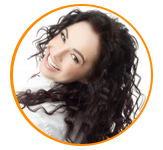
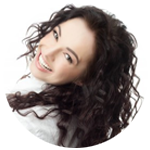
ready all except reviews-page (adding photos in review)

diff --git a/js/main.js b/js/main.js
@@ -24,15 +24,14 @@ $(document).ready(function () {
 
 
     //START MAIN PAGE
-
-    //Start modal-window
+        //Start modal-window
         $('.modal-show').on('click', function () {
             $('.overlay').fadeIn(400,
                 function () {
                     $('.modal-form').css('display', 'block').animate({opacity: 1, top: '5%'}, 200);
                 });
         });
-        /* Close modal-window */
+            //Close modal-window
         $('.modal-close, .overlay').on('click', function () {
             $('.modal-form').animate({opacity: 0}, 200,
                 function () {
@@ -64,7 +63,6 @@ $(document).ready(function () {
          * @returns {boolean}
          */
         function validationFields(inputs) {
-
             var countError = 0;
             $.each(inputs, function (i, input) {
 
@@ -81,6 +79,7 @@ $(document).ready(function () {
                     input.parent().children('.success-check').addClass('completed-success');
                 }
             });
+
             return !countError;
         }
 
@@ -140,43 +139,37 @@ $(document).ready(function () {
         $('.page-link').on('click',function (e) {
             e.preventDefault();
 
-            var block;
-            var $this;
+            var $this, block;
 
             if($(this).hasClass('page-prev')){
-
                 $this = $(this).closest('.pagination').children('li').children('.active').parent().prev().children();
-
-                if(!$this.hasClass('page-prev')){
-                    block = $($this.data('paginate'));
-
-                    block.siblings().removeClass('pagination-active').addClass('invisible');
-                    block.removeClass('invisible').addClass('pagination-active');
-
-                    $this.parent().siblings().children().removeClass('active');
-                    $this.addClass('active');
-                }
+                block = $this.hasClass('page-prev') ? false: $($this.data('paginate'));
             }else if($(this).hasClass('page-next')){
                 $this = $(this).closest('.pagination').children('li').children('.active').parent().next().children();
-
-                if(!$this.hasClass('page-next')){
-                    block = $($this.data('paginate'));
-
-                    block.siblings().removeClass('pagination-active').addClass('invisible');
-                    block.removeClass('invisible').addClass('pagination-active');
-
-                    $this.parent().siblings().children().removeClass('active');
-                    $this.addClass('active');
-                }
+                block = $this.hasClass('page-next') ? false: $($this.data('paginate'));
             }else{
+                $this = $(this);
                 block = $($(this).data('paginate'));
+            }
 
+            if(block){
                 block.siblings().removeClass('pagination-active').addClass('invisible');
                 block.removeClass('invisible').addClass('pagination-active');
+                $this.parent().siblings().children().removeClass('active');
+                $this.addClass('active');
 
-                $(this).parent().siblings().children().removeClass('active');
-                $(this).addClass('active');
+                if(block.hasClass('art-block-1')){
+                    $('.page-prev').addClass('disabled');
+                    $('.page-next').removeClass('disabled');
+                }else if(block.hasClass('art-block-3')){
+                    $('.page-next').addClass('disabled');
+                    $('.page-prev').removeClass('disabled');
+                }else{
+                    $('.page-prev').removeClass('disabled');
+                    $('.page-next').removeClass('disabled');
+                }
             }
+
         });
         // End pagination
 
@@ -184,10 +177,10 @@ $(document).ready(function () {
 
 
     // START REVIEWS PAGE
-
+        var filename;
         // Start input-file
         $('input[type=file]').change(function () {
-            var filename = $(this).val().replace(/.*\\/, '');
+             filename = $(this).val().replace(/.*\\/, '');
             console.log(filename);
             $('.attach-photo').html(filename);
         });
@@ -197,15 +190,43 @@ $(document).ready(function () {
 
     $('.add-comment').on('click',function (e) {
         e.preventDefault();
-        var nameUser = $('.horizontal-form').find('#name').val();
-        var commentUser = $('.horizontal-form').find('#comment').val();
-        console.log(nameUser);
-        console.log(commentUser);
 
+        var nameUser = $('#name');
+        var userComment = $('#comment');
+
+        if(validationFields([nameUser,userComment])){
+            var reviewWrapper = $('.template-review').clone();
+            var dateReviews = getDate();
+            reviewWrapper.find('.name-user').empty().text(nameUser.val());
+            reviewWrapper.find('.user-comment').empty().text(userComment.val());
+            reviewWrapper.find('.date-reviews').empty().text(dateReviews);
+            reviewWrapper.find('.photo-user-wrapper').children('img').attr('src','');
+            reviewWrapper.removeClass('template-review');
+            $('.all-reviews').append(reviewWrapper);
+        }
     });
 
-        //End add review
+    // getDate
+    function getDate() {
+        var date = new Date();
+        var day = date.getDate();
+        var month = date.getMonth();
+        var year = date.getFullYear();
 
+        if(day.toString().length === 1){
+            day ='0' + day;
+        }
+
+        month ++;
+        if(month.toString().length === 1){
+            month = '0'+ month;
+        }
+
+        return day + '.' + month + '.' + year;
+    }
+
+        //End add review
+    // validation form-review
     // END REVIEWS PAGE
 
 });

diff --git a/reviews.html b/reviews.html
@@ -61,7 +61,7 @@
             <div class="all-reviews">
                 <h3 class="title-info-box">Отзывы</h3>
                 <!--Start Review 1-->
-                <div class="review-wrapper">
+                <div class="review-wrapper template-review">
                     <div class="review clearfix">
                         <div class="photo-user-wrapper pull-left">
                             <img src="img/rewievs-1.png" alt="photo-user">
@@ -131,6 +131,9 @@
                             </div>
                             <div class="input-wrapper pull-left">
                                 <input type="text"  id="name" placeholder="Ваше имя ...">
+                                <i class="fa fa-check success-check invisible"></i>
+                                <i class="fa fa-close error-close invisible"></i>
+                                <ul class="errors invisible"></ul>
                             </div>
                         </div>
                         <div class="horizontal-form clearfix">
@@ -151,6 +154,7 @@
                             </div>
                             <div class="input-wrapper pull-left">
                                 <textarea name="comment" id="comment" placeholder="Оставьте комментарий ..."></textarea>
+                                <ul class="errors invisible"></ul>
                             </div>
                         </div>
                         <div class="horizontal-form">

diff --git a/css/form.css b/css/form.css
@@ -42,11 +42,6 @@ form{
     margin: 20px 0;
 }
 
-.input-wrapper{
-    position: relative;
-    margin-bottom: 20px;
-}
-
 .radio-wrapper{
     margin-bottom: 15px;
 }
@@ -109,38 +104,6 @@ form{
     color: #ffffff;
     width: 100%;
 }
-
-/*start class for Js*/
-
-.validate-input{
-    display: inline-block;
-}
-
-.validate-input > li{
-    font-size: 12px;
-    padding-top: 5px;
-    color: #ff0000;
-}
-
-.completed-success{
-    color: #218837;
-    position: absolute;
-    display: inline;
-    float: right;
-    right: 10px;
-    top: 10px;
-}
-
-.completed-error{
-    color: #ff0000;
-    position: absolute;
-    display: inline;
-    float: right;
-    right: 10px;
-    top: 10px;
-}
-
-
 
 /*-------------------------------------------- End Form ---------------------------------------------*/
 /*-------------------------------------------- Start success-window---------------------------------*/
@@ -239,6 +202,15 @@ form{
     font-size: 18px;
     color: #d3d3d3;
     cursor: pointer;
+}
+
+.modal-form-success{
+    width: 32%;
+    position: fixed;
+    bottom: 20%;
+    left: 35%;
+    opacity: 0;
+    z-index: 5;
 }
 .overlay {
     z-index:3;

diff --git a/css/common.css b/css/common.css
@@ -190,6 +190,10 @@ textarea::-webkit-input-placeholder {
     margin-bottom: 20px;
 }
 
+.input-wrapper{
+    position: relative;
+}
+
     /*--------------End form styles----------*/
 
 .invisible{
@@ -200,6 +204,37 @@ textarea::-webkit-input-placeholder {
     height: 100% !important;
 }
 
+.disabled{
+    cursor: not-allowed;
+}
+
+.validate-input{
+    display: inline-block;
+}
+
+.validate-input > li{
+    font-size: 12px;
+    padding-top: 5px;
+    color: #ff0000;
+}
+
+.completed-success{
+    color: #218837;
+    position: absolute;
+    display: inline;
+    float: right;
+    right: 10px;
+    top: 10px;
+}
+
+.completed-error{
+    color: #ff0000;
+    position: absolute;
+    display: inline;
+    float: right;
+    right: 10px;
+    top: 10px;
+}
 /* ---------------------------------------- End common classes  -------------------------------------- */
 
 

diff --git a/publications.html b/publications.html
@@ -531,7 +531,7 @@
 
                 <div class="pagination-wrapper clearfix">
                     <ul class="pagination pull-right">
-                        <li><a href="" class="page-link page-prev">Назад</a></li>
+                        <li><a href="" class="page-link page-prev disabled">Назад</a></li>
                         <li><a href="" class="page-link active" data-paginate=".art-block-1">1</a></li>
                         <li><a href="" class="page-link" data-paginate=".art-block-2">2</a></li>
                         <li><a href="" class="page-link" data-paginate=".art-block-3">3</a></li>

diff --git a/css/reviews.css b/css/reviews.css
@@ -23,6 +23,14 @@
 
 .photo-user-wrapper{
     width: calc(100% - 82%);
+
+}
+
+.photo-user-wrapper >img{
+    width: 156px;
+    height: 156px;
+    border-radius: 50%;
+    border: 3px solid #ff8a00;
 }
 
 .text-review{
